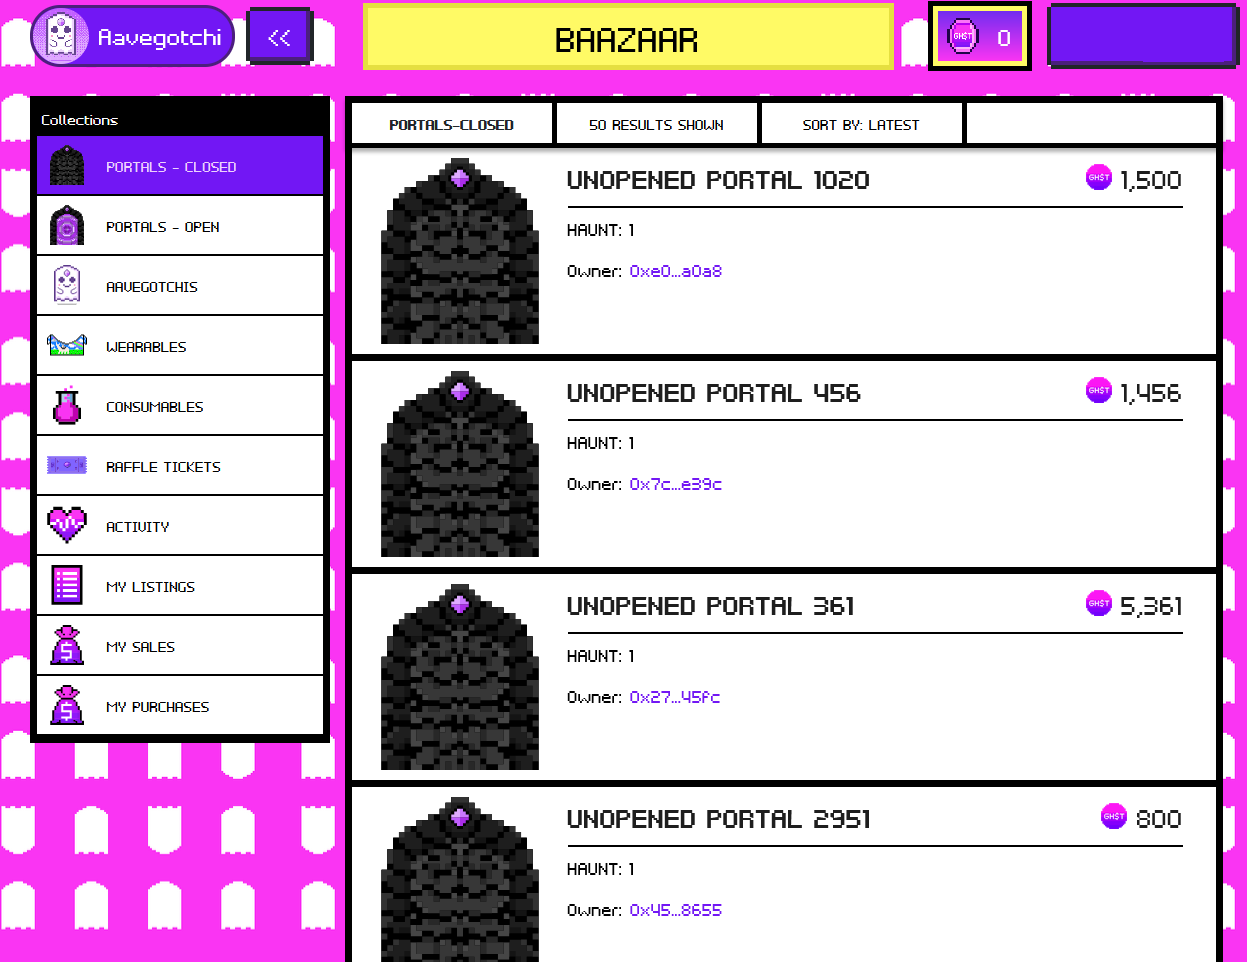
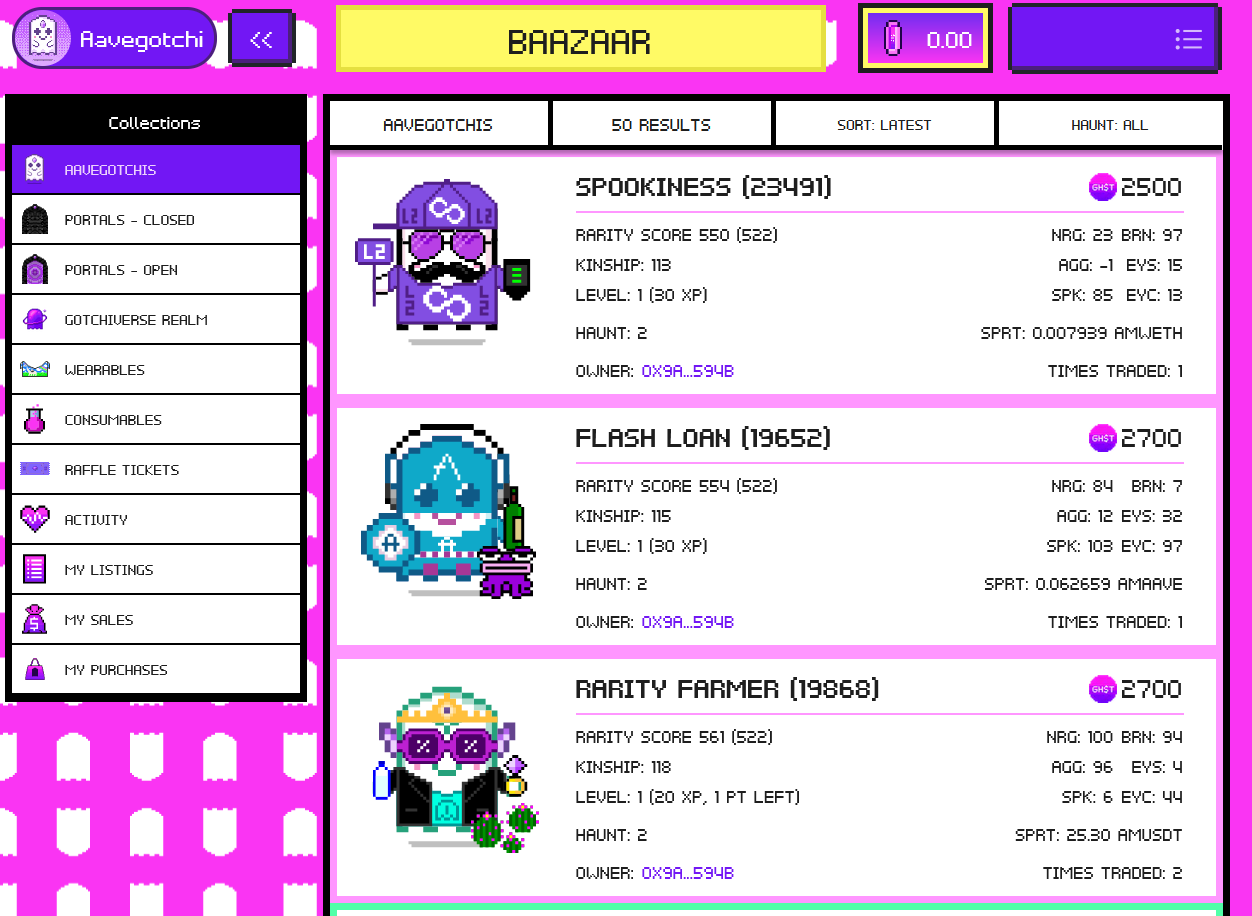
Added REALM option and new pic for the Baazaar page

diff --git a/posts/en/baazaar.md b/posts/en/baazaar.md
@@ -65,9 +65,10 @@ The Aavegotchi Baazaar can be found [here](https://aavegotchi.com/baazaar).
 ## Features
 There are a variety of products listed on the Baazaar:
 
-* Closed Portals
-* Opened Portals
 * Aavegotchis
+* Portals — Closed
+* Portals — Open
+* Gotchiverse REALM
 * Wearables
 * Consumables
 * Raffle Tickets
